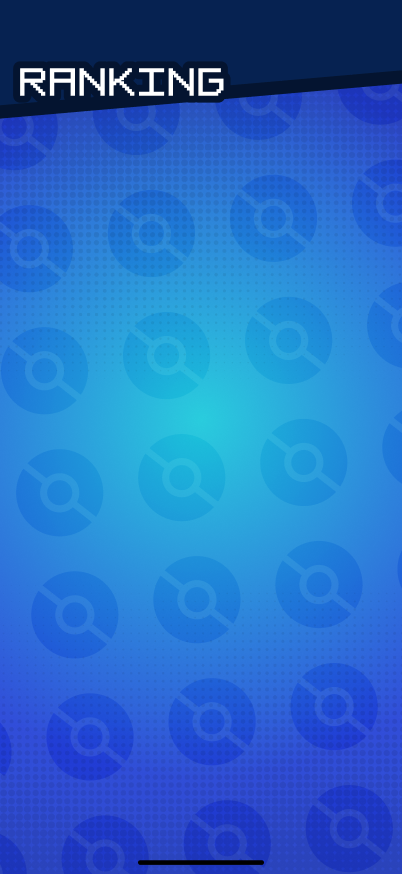
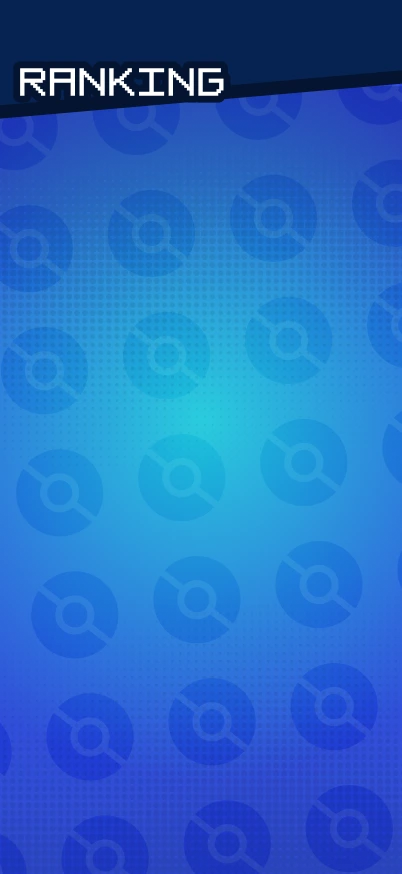
[fix] 마이페이지, 랭킹화면- 배경화면 변경 및 테스트 코드 삭제
- 랭킹 배경화면: 아래 검정 줄 없는 배경화면으로 변경
- 마이페이지: 임의로 넣어둔 테스트 코드 변경

Changed region(s): [[0.0, 0.1545, 1.0, 0.3089], [0.3582, 0.9577, 0.6567, 0.9886]]

diff --git a/cuketmon/src/MyPage/MyPage.js b/cuketmon/src/MyPage/MyPage.js
@@ -225,17 +225,17 @@ const releaseCukemon = async () => {
 
           <div className='feedCukemonButton' onClick={feedCukemon}>
             <img src='/MyPage/feed.webp' id='feed' alt="밥 아이콘" />
-            <span>{feedCount}112</span>
+            <span>{feedCount}</span>
           </div>
 
             <div className='playCukemonButton'onClick={playCukemon}>
             <img src='/MyPage/toy.webp' id='play'alt="장난감 아이콘" />
-            <span>{toyCount}20</span>
+            <span>{toyCount}</span>
             </div>
       </div>
    
       <div className='cukemonImg'>
-        <img src='/RankingPage/cukemonEx.png'/*{cukemonData?.img}*/ alt="Cukemon" id='cuketmonImage' />
+        <img src={cukemonData?.img} alt="Cukemon" id='cuketmonImage' />
       </div>
 
       <div className='cucketmonProfile'>
